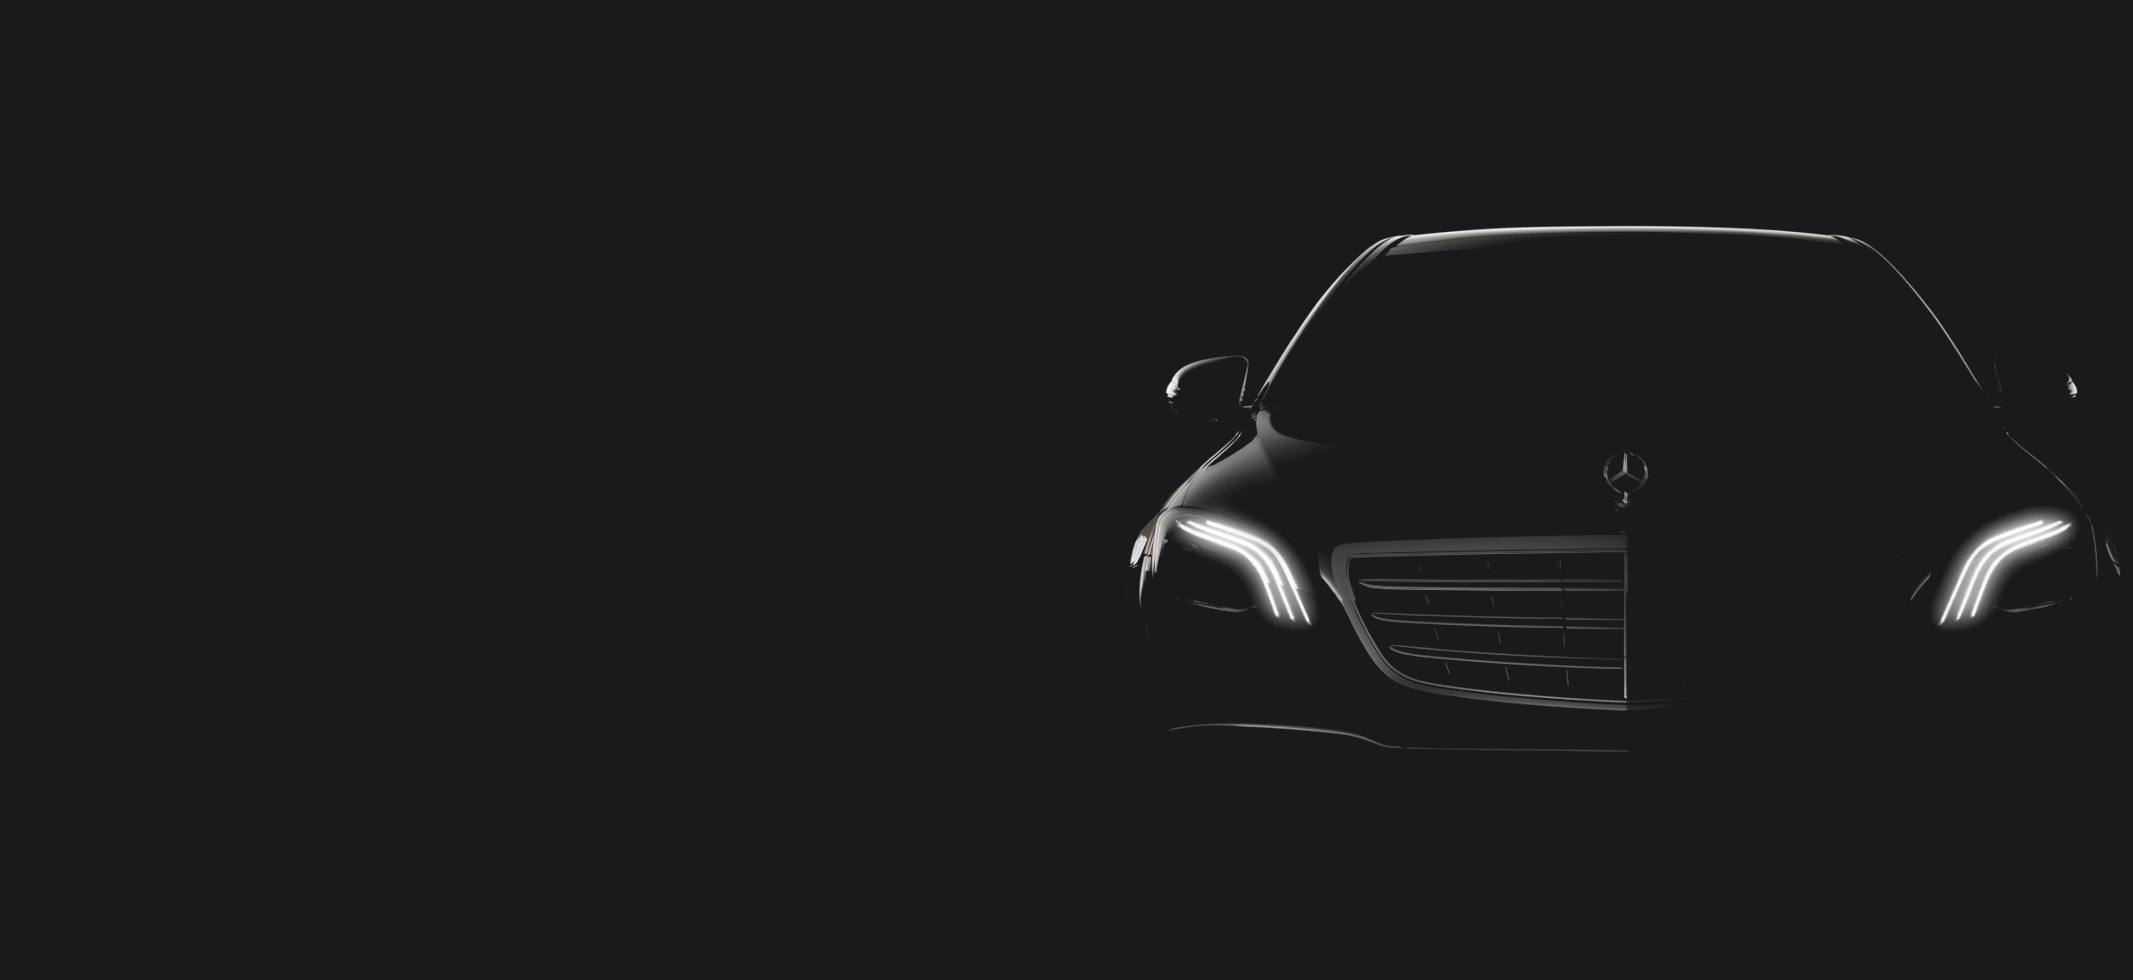
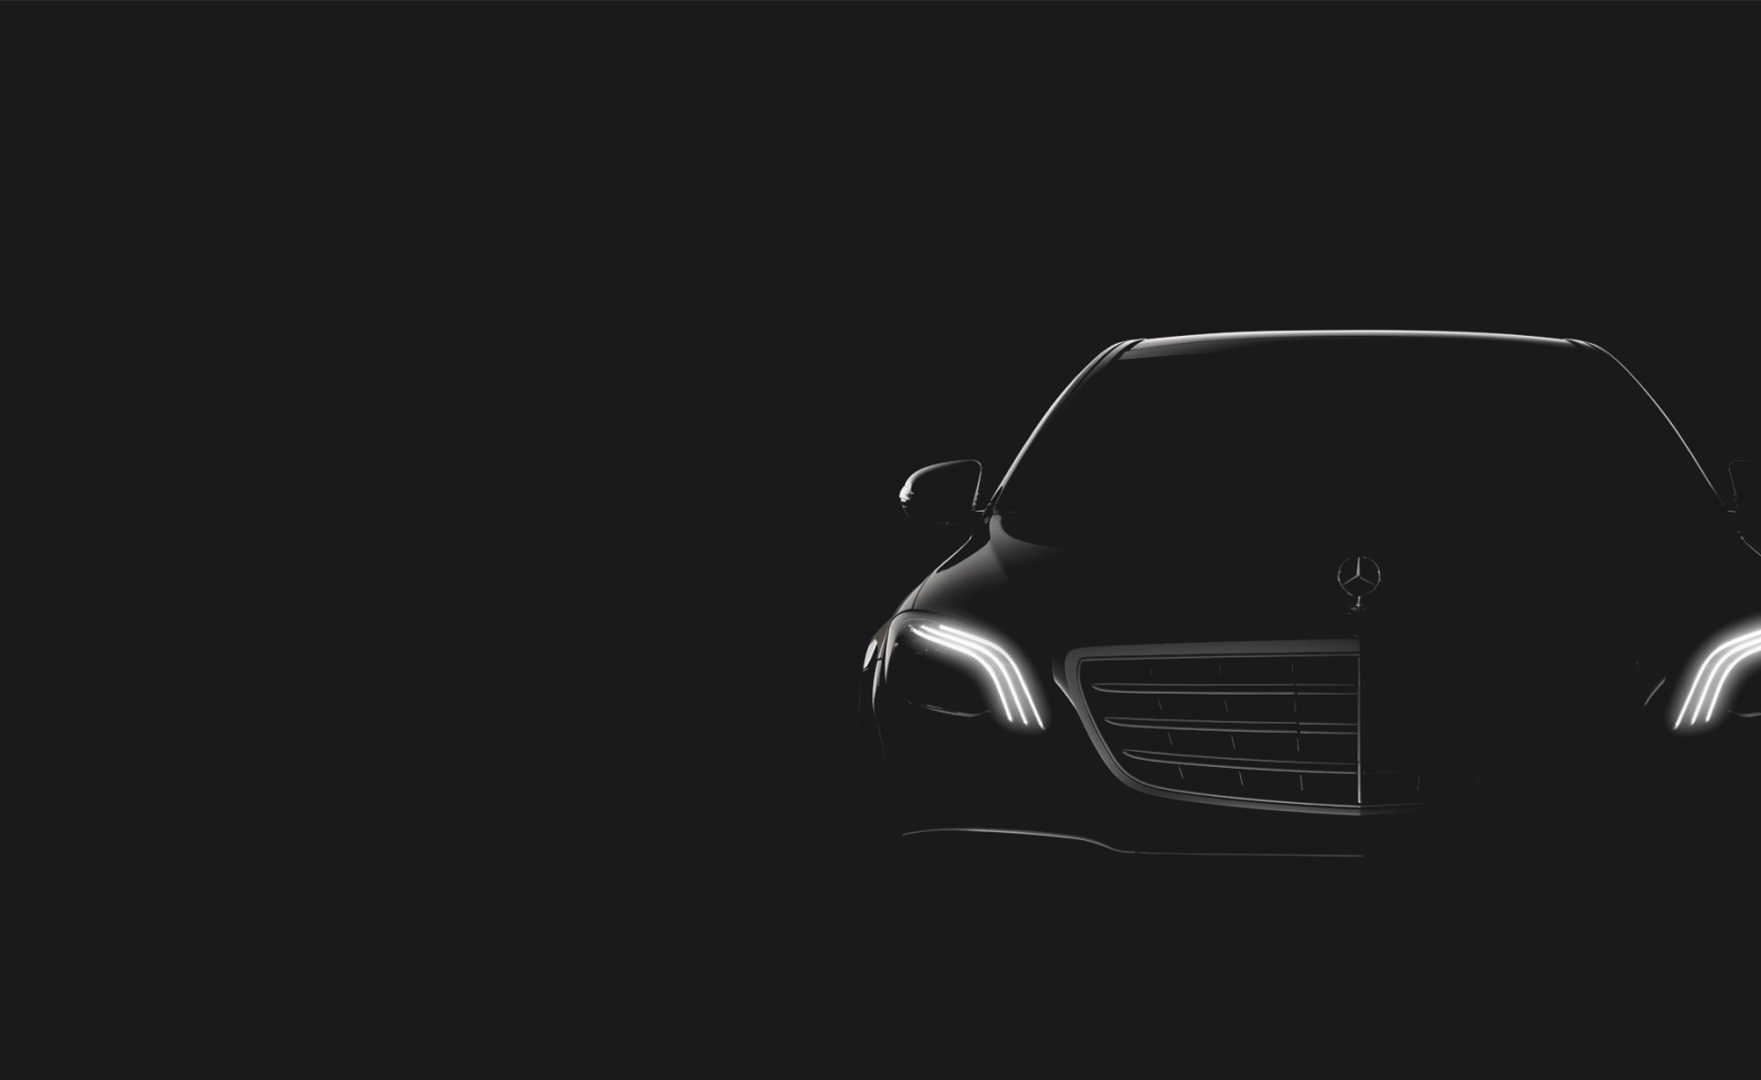
Add Catalog, Services and Contacts page, add Browser router and NavLink

diff --git a/src/App.js b/src/App.js
@@ -2,14 +2,25 @@ import './App.css';
 import Header from './components/Header/Header';
 import Main from './components/Main/Main';
 import React from 'react';
+import {BrowserRouter, Routes, Route} from 'react-router-dom';
+import Catalog from './components/Catalog/Catalog';
+import Contacts from './components/Contacts/Contacts';
+import Services from './components/ Services/ Services';
 
 
-function App(props) {
+const App = (props) => {
   return (
-    <div className="app-wrapper">
-      <Header/>
-      <Main state={props.state}/>
-    </div>
+    <BrowserRouter >
+      <div className="app-wrapper">
+        <Header/>
+        <Routes >
+          <Route path='/main' element={<Main state={props.state}/>}/>
+          <Route path='/catalog/*' element={<Catalog/>}/>
+          <Route path='/services/*' element={<Services/>}/>
+          <Route path='/contacts' element={<Contacts/>}/>
+        </Routes>
+      </div>
+    </BrowserRouter>
   );
 }
 

diff --git a/src/components/Header/Header.jsx b/src/components/Header/Header.jsx
@@ -9,10 +9,10 @@ const Header = () => {
     <header className={style.header}>
       <img src={logo} alt="Resale Avto" className={style.logo}/>
       <ul className={style.nav}>
-        <Navigation name={'Главная'} link={'#'}/>
-        <Navigation name={'Каталог'} link={'#'}/>
-        <Navigation name={'Услуги'} link={'#'}/>
-        <Navigation name={'Контакты'} link={'#'}/>
+        <Navigation name={'Главная'} link={'/main'}/>
+        <Navigation name={'Каталог'} link={'/catalog'}/>
+        <Navigation name={'Услуги'} link={'/services'}/>
+        <Navigation name={'Контакты'} link={'/contacts'}/>
       </ul>
       <Profile />
       <div className={style.line}/>

diff --git a/src/components/Header/Navigation/Navigation.jsx b/src/components/Header/Navigation/Navigation.jsx
@@ -1,10 +1,17 @@
 import React from 'react';
 import style from './Navigation.module.css'
+import {NavLink} from 'react-router-dom';
+
+const SelectedLink = () => {
+  return (
+    select => select.isActive ? style.activeLink : style.navMenu
+  )
+}
 
 const Navigation = (props) => {
   return (
     <li className={style.nav}>
-      <a href={props.link} className={style.navMenu}>{props.name}</a>
+      <NavLink to={props.link} className={SelectedLink()}>{props.name}</NavLink>
     </li>
   )
 }

diff --git a/src/components/Main/Banner/Banner.module.css b/src/components/Main/Banner/Banner.module.css
@@ -1,6 +1,8 @@
 .banner {
-  /*background: url('../../../img/header_bg.png') no-repeat center top;*/
-
+  background: url('../../../img/main-bg.png') no-repeat center top;
+  background-position-x: -500px;
+  background-position-y: 40px;
+  width: 140%;
 }
 
 .fill {
@@ -26,4 +28,7 @@
   width: 483px;
   letter-spacing: 0.08em;
   padding-bottom: 338px;
+}
+
+.bg {
 }

diff --git a/src/components/Catalog/Catalog.jsx b/src/components/Catalog/Catalog.jsx
@@ -1,0 +1,12 @@
+import React from 'react';
+import style from './Catalog.module.css'
+
+const Catalog = () => {
+  return (
+    <div className={style.catalog}>
+      <h1 className='header-info'>Авто в продаже</h1>
+    </div>
+  )
+}
+
+export default Catalog

diff --git a/src/App.css b/src/App.css
@@ -35,7 +35,8 @@ body {
   font-family: 'Montserrat', sans-serif;
   color: #fff;
   font-size: 16px;
-  background: #1a1a1d url("img/main-bg.png") center top no-repeat;
+  background: #1a1a1d;
+  overflow-x: hidden;
 }
 
 ul,

diff --git a/src/components/Header/Navigation/Navigation.module.css b/src/components/Header/Navigation/Navigation.module.css
@@ -11,3 +11,11 @@
   font-weight: 400;
   line-height: 17px;
 }
+
+.activeLink {
+  text-transform: uppercase;
+  font-size: 14px;
+  color: #C3073F;
+  font-weight: 400;
+  line-height: 17px;
+}

diff --git a/src/components/Header/Header.module.css b/src/components/Header/Header.module.css
@@ -3,9 +3,7 @@
   position: fixed;
   top: 0;
   width: 100%;
-
   background-color: #1a1a1d;
-  /*background-color: gold;*/
   align-items: center;
 
 }

diff --git a/src/components/ Services/ Services.jsx b/src/components/ Services/ Services.jsx
@@ -1,0 +1,9 @@
+import React from 'react';
+
+const Services = () => {
+  return (
+    <div>Services</div>
+  )
+}
+
+export default Services

diff --git a/src/components/Contacts/Contacts.jsx b/src/components/Contacts/Contacts.jsx
@@ -1,0 +1,9 @@
+import React from 'react';
+
+const Contacts = () => {
+  return (
+    <div>contacts</div>
+  )
+}
+
+export default Contacts

diff --git a/src/components/Catalog/Catalog.module.css b/src/components/Catalog/Catalog.module.css
@@ -1,0 +1,3 @@
+.catalog {
+
+}
